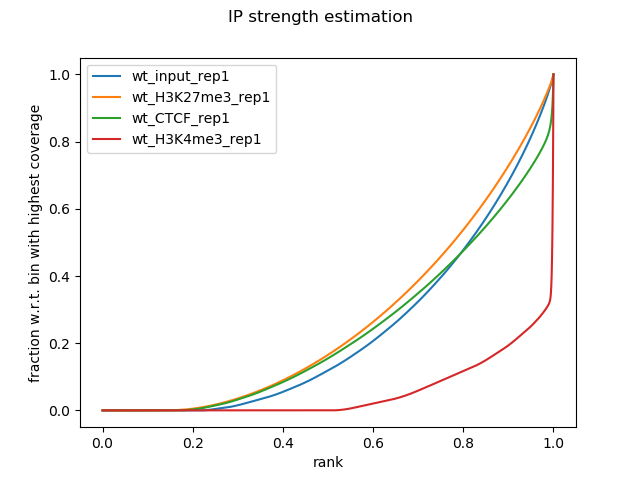
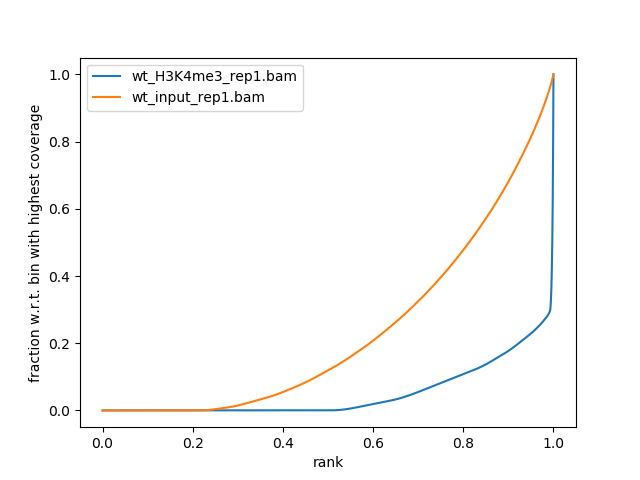
Updated the fasta files

diff --git a/topics/chip-seq/tutorials/formation_of_super-structures_on_xi/tutorial.md b/topics/chip-seq/tutorials/formation_of_super-structures_on_xi/tutorial.md
@@ -8,13 +8,12 @@ tutorial_name: formation_of_super-structures_on_xi
 {:.no_toc}
 
 This exercise uses the published data from [Chen-Yu Wang et al., 2018](https://www.cell.com/cell/fulltext/S0092-8674(18)30584-1).
-The goal of this research was to investigate the mechanism by which SMCHD1 gene shapes the Xi and represses gene expression.
+The goal of this research is to investigate the mechanism by which the SMCHD1 gene shapes the Xi (inactive X chromosome) and represses the gene expression.
 
-To this end, several ChIP-seq experiments were performed on both wild-type and SMCHD1 gene knockdown cells including ChIP data for H3K27me3, H3K4me3 histone marks and CTCF transcription factor which will be used in the upcoming tutorial to present a step by step ChIP-seq data analysis.
+To this end, several ChIP-seq experiments were performed on both wild-type and SMCHD1 gene knockdown samples to study the SMCHD1 effect. It include ChIP-seq data for H3K27me3, H3K4me3 histone marks and the CTCF transcription factor which will be used in the upcoming tutorial to present a step by step ChIP-seq data analysis.
 
 During the following steps, the corresponding 'input' samples, for which the same treatment as the ChIP-seq samples was done except for the immunoprecipitation step, are also used along with the 'ChIP-seq' samples to identify the potential sequencing bias and help for differential analysis.
 
-Because of the long processing time for the large original files, we have extracted the data from the chromosome X and provide you with the already processed data for the subsequent steps.
 
 > ### Agenda
 >
@@ -25,12 +24,12 @@ Because of the long processing time for the large original files, we have extrac
 
 # Step 1: Quality control and treatment of the sequences
 
-The first step of any ChIP-Seq data analysis is quality control of the raw sequencing data.
+The first step of any ChIP-Seq data analysis is quality control of the raw sequencing data. The provided files for this step were already sub-sampled in the interest of saving time.
 
 > ### {% icon hands_on %} Hands-on: Quality control
 >
 > 1. Create a new history for this tutorial and give it a proper name
-> 2. Import `wt_H3K4me3_read1.fastq` (link in [Zenodo](https://zenodo.org/record/1321974/files/wt_H3K4me3_read1.fastq)) and `wt_H3K4me3_read2.fastq` (link in [Zenodo](https://zenodo.org/record/1321974/files/wt_H3K4me3_read2.fastq)) from
+> 2. Import `wt_H3K4me3_read1.fastq.gz` (link in [Zenodo](https://zenodo.org/record/1324070/files/wt_H3K4me3_read1.fastq.gz)) and `wt_H3K4me3_read2.fastq.gz` (link in [Zenodo](https://zenodo.org/record/1324070/files/wt_H3K4me3_read2.fastq.gz)) from
  [Zenodo](https://zenodo.org/) or from the data library into the history
 >
 >    > ### {% icon tip %} Tip: Importing data via links
@@ -96,7 +95,6 @@ It is often necessary to trim sequenced read, for example, to get rid of bases t
 >    {: .tip}
 >
 {: .hands_on}
-
 # Step 2: Mapping of the reads
 
 In order to figure where the sequenced DNA fragments originated from in the genome, the short reads must be aligned to the reference genome. This is equivalent to solving a jigsaw puzzles, but unfortunately, not all pieces are unique. In principle, you could do a BLAST analysis to figure out where the sequenced pieces fit best in the known genome. Aligning millions of short sequences this way may, however, take a couple of weeks.
@@ -112,6 +110,7 @@ Nowadays, there are many read alignment programs for shotgun sequenced DNA, Bowt
 >    - "FASTA/Q file" to the Trim Galore! output with the trimmed reads
 >    - "Will you select a reference genome from your history or use a built-in index?" to `Use a built-in genome index`
 >    - "Select reference genome" to `Mouse (Mus musculus): mm10`
+>    - "Save the bowtie2 mapping statistics to the history" to `Yes`
 >    - "Execute"
 >
 >    > ### {% icon question %} Questions
@@ -119,8 +118,8 @@ Nowadays, there are many read alignment programs for shotgun sequenced DNA, Bowt
 >    > 1. How many reads where mapped?
 >    >
 >    > > ### {% icon solution %} Solution
->    > > 1. This information can be accessed by clicking on the resulting history entry. You can see some basic mapping statistics once the alignment is completed. 100220 (81.55%) aligned concordantly exactly 1 time
->    22350 (18.19%) aligned concordantly >1 times.
+>    > > 1. This information can be accessed from `mapping stats`. You can see the mapping statistics once the alignment is completed. 43719 (90.27%) aligned concordantly exactly 1 time and 
+>    3340 (6.90%) aligned concordantly >1 times.
 >    > {: .solution }
 >    {: .question}
 >
@@ -133,13 +132,12 @@ We will show you two ways to inspect the file:
 1. Visualization using a Genome Browser
 2. Converting the binary format into its text file equivalent
 
-
 ## Visualization using a Genome Browser
 
 > ### {% icon hands_on %} Hands-on: Visualization of the reads in IGV
 >
 > 1. Click on the `display with IGV local` to load the reads into the IGV browser
-> 2. Zoom at the start of chromosome X (or `chrX:106,435,807-106,439,377`)
+> 2. Zoom at the start of chromosome X (or `chr2:91,053,413-91,055,345`)
 {: .hands_on}
 
 The reads have a direction: they are mapped to the forward or reverse strand, respectively. When hovering over a read, extra information is displayed
@@ -203,21 +201,21 @@ That is, because the input samples should not have enriched regions included - r
 
 To compute the correlation between the samples we are going to to use the QC modules of deepTools (http://deeptools.readthedocs.io/), a software package for the QC, processing and analysis of NGS data. Before computing the correlation a time consuming step is required, which is to compute the read coverage over a large number of regions from each of the inputed BAM files. For this we will use the tool **multiBamSummary** {% icon tool %}.
 
-Since in this tutorial we are interested in assessing H3K4me3, H3K27me3 and CTCF ChIP samples, at first we need to catch up with all the replicates of ChIP samples as well as the input samples and re-run the previous steps (quality control and mapping) on each sample.
-To save time, we already did that and you can now work directly on the BAM files of the 8 samples. For simplicity, the files include only ChrX.
+Since in this tutorial we are interested in assessing H3K4me3, H3K27me3 and CTCF ChIP samples,  the previous steps (quality control and mapping) needs to be run on all the replicates of ChIP samples as well as the input samples.
+To save time, we have already done that and you can now work directly on the BAM files of the provided 8 samples. For simplicity, the files include only the ChrX.
 
 > ### {% icon hands_on %} Hands-on: Correlation between samples
 >
 > 1. Create a new history
-> 2. Import the 8 BAM files from [Zenodo](https://zenodo.org/record/1321974) or from the data library into the history
->    - [`wt_CTCF_rep1.bam`](https://zenodo.org/record/1321974/files/wt_CTCF_rep1.bam)
->    - [`wt_CTCF_rep2.bam`](https://zenodo.org/record/1321974/files/wt_CTCF_rep2.bam)
->    - [`wt_H3K4me3_rep1.bam`](https://zenodo.org/record/1321974/files/wt_H3K4me3_rep1.bam)
->    - [`wt_H3K4me3_rep2.bam`](https://zenodo.org/record/1321974/files/wt_H3K4me3_rep2.bam)
->    - [`wt_H3K27me3_rep1.bam`](https://zenodo.org/record/1321974/files/wt_H3K27me3_rep1.bam)
->    - [`wt_H3K27me3_rep2.bam`](https://zenodo.org/record/1321974/files/wt_H3K27me3_rep2.bam)
->    - [`wt_input_rep1.bam`](https://zenodo.org/record/1321974/files/wt_input_rep1.bam)
->    - [`wt_input_rep2.bam`](https://zenodo.org/record/1321974/files/wt_input_rep2.bam)
+> 2. Import the 8 BAM files from [Zenodo](https://zenodo.org/record/1324070) or from the data library into the history
+>    - [`wt_CTCF_rep1.bam`](https://zenodo.org/record/1324070/files/wt_CTCF_rep1.bam)
+>    - [`wt_CTCF_rep2.bam`](https://zenodo.org/record/1324070/files/wt_CTCF_rep2.bam)
+>    - [`wt_H3K4me3_rep1.bam`](https://zenodo.org/record/1324070/files/wt_H3K4me3_rep1.bam)
+>    - [`wt_H3K4me3_rep2.bam`](https://zenodo.org/record/1324070/files/wt_H3K4me3_rep2.bam)
+>    - [`wt_H3K27me3_rep1.bam`](https://zenodo.org/record/1324070/files/wt_H3K27me3_rep1.bam)
+>    - [`wt_H3K27me3_rep2.bam`](https://zenodo.org/record/1324070/files/wt_H3K27me3_rep2.bam)
+>    - [`wt_input_rep1.bam`](https://zenodo.org/record/1324070/files/wt_input_rep1.bam)
+>    - [`wt_input_rep2.bam`](https://zenodo.org/record/1324070/files/wt_input_rep2.bam)
 >
 > 3. **multiBamSummary** {% icon tool %} with
 >    - "Sample order matters" to `No`
@@ -270,6 +268,8 @@ To evaluate the quality of the immuno-precipitation step, we can compute the IP 
 >    - "Sample order matters" to `No`
 >    - "Bam file" to `wt_input_rep1`and `wt_H3K4me3_rep1`
 >    - "Region of the genome to limit the operation to" to `ChrX`
+>    - "Show advanced options" to `Yes`
+>    - "Number of samples" to `10000`
 >    - "Execute"
 {: .hands_on}
 
@@ -286,13 +286,13 @@ The plotFingerprint tool generates a fingerprint plot. You need to intepret it t
 > > ### {% icon solution %} Solution
 > >  There is a obvious signal between H3K4me3 and input.
 > >
-> >  Almost 20% of chromosome 1 are not sequenced at all.
+> >  Almost 25% of the chromosome X is not sequenced at all.
 > {: .solution }
 {: .question}
 
 > ### {% icon hands_on %} (Optional) Hands-on: IP strength estimation (other samples)
 >
-> 1. Run the same analysis on data of the 3 other patients
+> 1. Run the same analysis on the other ChIP-seq data along with their corresponding input and compare the output
 {: .hands_on}
 
 
